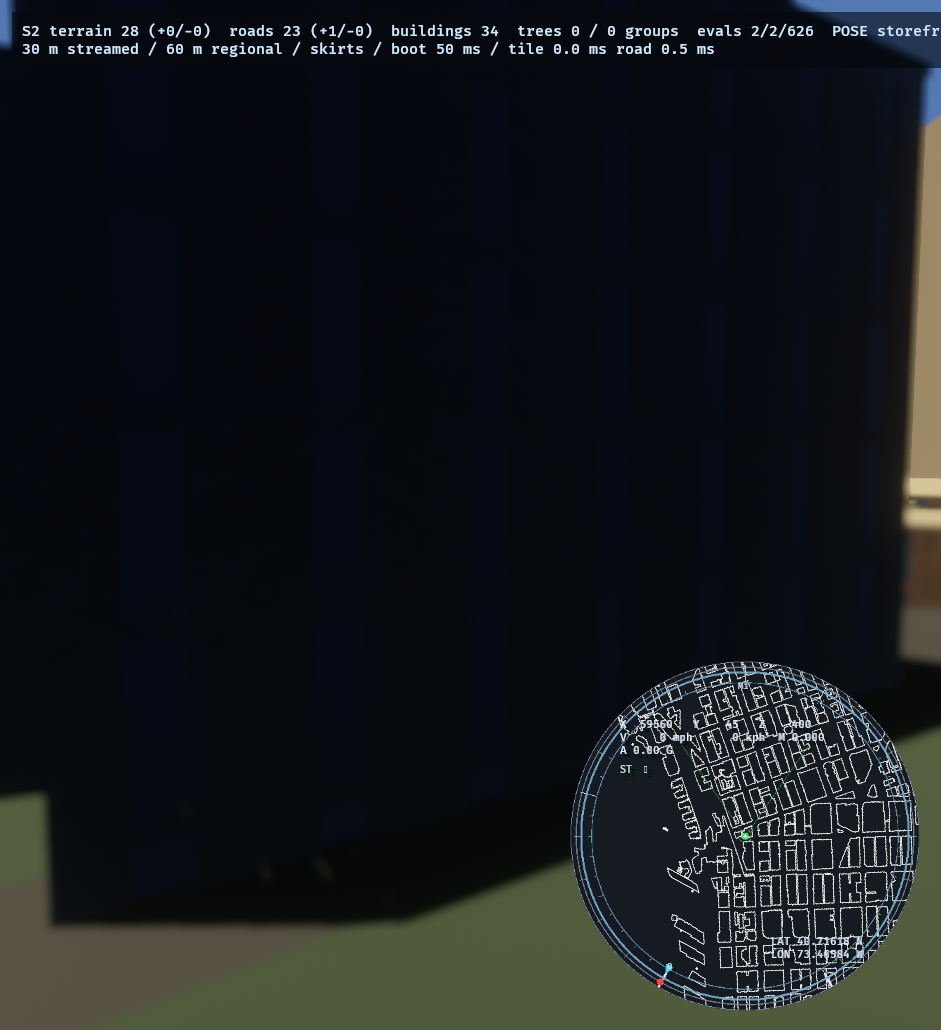
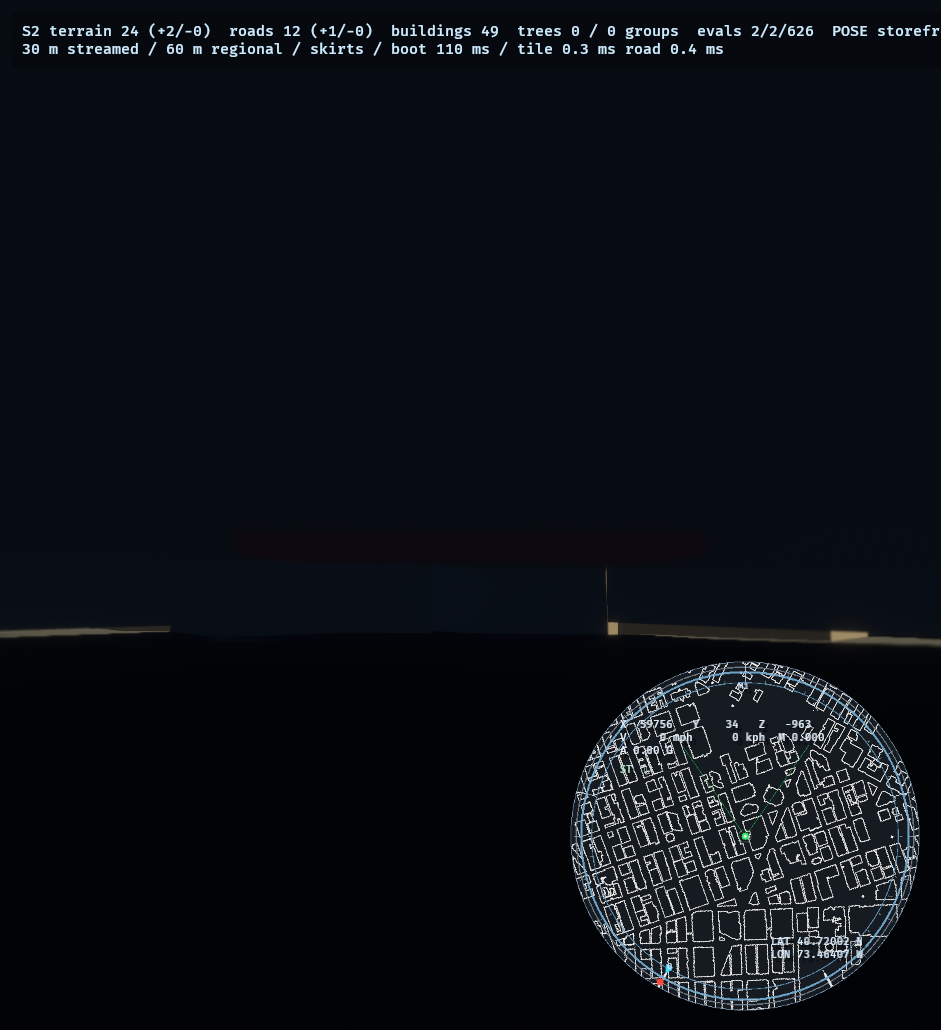
Storefronts: derived prop cameras (placement-driven)
- PlacementIndex remembers every generated prop; storefront_capture picks one
  real instance per grammar and stages an eye 8 m along its outward face
  normal at 2.6 m, aiming mid-height (the Needle/Market derivation applied to
  props). Poses carry the authority stamp.
- Frames now prove the props exist at scale (colonnade piers and lintel fill
  the Pioneer frame), but they are not yet reviewer-legible: the facades behind
  the props are unlit/dark and district context is missing; no perf table, no
  tag.

diff --git a/viewer/src/storefronts.rs b/viewer/src/storefronts.rs
@@ -209,6 +209,23 @@ impl StorefrontAssets {
     }
 }
 
+/// Every placement that has been generated, by prop kind, for derived cameras.
+#[derive(Resource, Default)]
+pub struct PlacementIndex {
+    pub by_kind: HashMap<u8, Vec<Placement>>,
+}
+
+impl PlacementIndex {
+    pub fn remember(&mut self, placements: &[Placement]) {
+        for placement in placements {
+            let list = self.by_kind.entry(placement.kind).or_default();
+            if list.len() < 400 {
+                list.push(*placement);
+            }
+        }
+    }
+}
+
 #[derive(Resource, Default)]
 pub struct Storefronts {
     pub loaded: HashMap<usize, Vec<Entity>>,
@@ -221,8 +238,10 @@ pub struct StorefrontsPlugin;
 
 impl Plugin for StorefrontsPlugin {
     fn build(&self, app: &mut App) {
-        app.add_systems(Startup, setup_storefronts)
-            .add_systems(Update, storefront_stream);
+        app.init_resource::<PlacementIndex>()
+            .init_resource::<StorefrontCaptureState>()
+            .add_systems(Startup, setup_storefronts)
+            .add_systems(Update, (storefront_stream, storefront_capture));
     }
 }
 
@@ -492,6 +511,7 @@ fn storefront_stream(world: &mut World) {
                 .insert(index, Vec::new());
             continue;
         }
+        world.resource_mut::<PlacementIndex>().remember(&placements);
         world
             .resource_mut::<Storefronts>()
             .pending
@@ -505,6 +525,151 @@ fn storefront_stream(world: &mut World) {
             world.resource::<Geology>().pack.nodes[index].name
         );
     }
+}
+
+#[derive(Resource, Default)]
+struct StorefrontCaptureState {
+    index: usize,
+    entered: bool,
+    since: f32,
+    done: bool,
+    chosen: Vec<Placement>,
+}
+
+const CAPTURE_KINDS: [(u8, &str); 4] = [
+    (KIND_AWNING, "storefronts_pike_place"),
+    (KIND_COLONNADE, "storefronts_pioneer_square"),
+    (KIND_WAREHOUSE, "storefronts_sodo"),
+    (KIND_PLACARD, "storefronts_residential"),
+];
+
+/// Derived camera: pick a real placed prop, stand 18 m along its outward face
+/// normal at pedestrian eye height, aim at its mid-height with a little street.
+fn storefront_capture(world: &mut World) {
+    if std::env::var_os("STOREFRONT_CAPTURE").is_none() || !crate::geology::s2_enabled() {
+        return;
+    }
+    let elapsed = world.resource::<Time>().elapsed_secs();
+    if elapsed < 5.0 {
+        return;
+    }
+    let (index, entered, since, done) = {
+        let state = world.resource::<StorefrontCaptureState>();
+        (state.index, state.entered, state.since, state.done)
+    };
+    if done {
+        return;
+    }
+    if index >= CAPTURE_KINDS.len() {
+        world.resource_mut::<StorefrontCaptureState>().done = true;
+        world.write_message(AppExit::Success);
+        return;
+    }
+    {
+        let mut clock = world.resource_mut::<crate::clock::SimClock>();
+        clock.minute_of_day = 12.0 * 60.0;
+        clock.playing = false;
+        let mut weather = world.resource_mut::<crate::weather::Weather>();
+        weather.auto = false;
+        weather.target = crate::weather::WeatherKind::Clear;
+        weather.cloud_cover = 0.18;
+        weather.precipitation = 0.0;
+        weather.storm = 0.0;
+        weather.snow = 0.0;
+    }
+    let (kind, name) = CAPTURE_KINDS[index];
+    if !entered {
+        let chosen = world
+            .resource::<PlacementIndex>()
+            .by_kind
+            .get(&kind)
+            .and_then(|list| list.first().copied());
+        let Some(placement) = chosen else {
+            // Nothing streamed yet: park the camera at the market so the
+            // streamer has something to load, then wait.
+            let ground = world
+                .resource::<crate::geology::Geology>()
+                .dem
+                .height(-440.0, -400.0);
+            let mut staged = world.resource_mut::<crate::camera_authority::StagedPose>();
+            crate::camera_authority::stage_look_at(
+                &mut staged,
+                "storefront_capture",
+                Vec3::new(
+                    crate::citypack::STREAM_WORLD_OFFSET - 440.0,
+                    ground + 6.0,
+                    -400.0,
+                ),
+                Vec3::new(
+                    crate::citypack::STREAM_WORLD_OFFSET - 525.0,
+                    ground + 8.0,
+                    -400.0,
+                ),
+                "warming",
+            );
+            return;
+        };
+        let ground = world
+            .resource::<crate::geology::Geology>()
+            .dem
+            .height(placement.x, placement.z);
+        let nx = placement.yaw.sin();
+        let nz = placement.yaw.cos();
+        let eye = Vec3::new(
+            crate::citypack::STREAM_WORLD_OFFSET + placement.x + nx * 8.0,
+            ground + 2.6,
+            placement.z + nz * 8.0,
+        );
+        let look = Vec3::new(
+            crate::citypack::STREAM_WORLD_OFFSET + placement.x + nx * 2.0,
+            ground + 3.2,
+            placement.z + nz * 2.0,
+        );
+        {
+            let mut staged = world.resource_mut::<crate::camera_authority::StagedPose>();
+            crate::camera_authority::stage_look_at(
+                &mut staged,
+                "storefront_capture",
+                eye,
+                look,
+                name,
+            );
+        }
+        {
+            let mut clock = world.resource_mut::<crate::clock::SimClock>();
+            clock.minute_of_day = 12.0 * 60.0;
+            let mut weather = world.resource_mut::<crate::weather::Weather>();
+            weather.auto = false;
+            weather.target = crate::weather::WeatherKind::Clear;
+            weather.cloud_cover = 0.18;
+            weather.precipitation = 0.0;
+            weather.storm = 0.0;
+            weather.snow = 0.0;
+        }
+        let mut state = world.resource_mut::<StorefrontCaptureState>();
+        state.chosen = vec![placement];
+        state.entered = true;
+        state.since = elapsed;
+        return;
+    }
+    if elapsed - since < 1.4 {
+        return;
+    }
+    let path = std::path::Path::new(env!("CARGO_MANIFEST_DIR"))
+        .join("captures")
+        .join(format!("{name}.png"));
+    world
+        .spawn(bevy::render::view::screenshot::Screenshot::primary_window())
+        .observe(bevy::render::view::screenshot::save_to_disk(path));
+    info!(
+        "STOREFRONT capture {name} from kind {} at ({:.0},{:.0})",
+        kind,
+        world.resource::<StorefrontCaptureState>().chosen[0].x,
+        world.resource::<StorefrontCaptureState>().chosen[0].z
+    );
+    let mut state = world.resource_mut::<StorefrontCaptureState>();
+    state.index += 1;
+    state.entered = false;
 }
 
 fn spawn_placements(world: &mut World, node: usize, placements: &[Placement]) {

diff --git a/viewer/src/main.rs b/viewer/src/main.rs
@@ -248,7 +248,7 @@ fn parse_args() -> Args {
                     std::env::set_var("SEATTLE_S3", "1");
                     std::env::set_var("PILOT_HORIZON", "1");
                     std::env::set_var("PILOT_CLEAN", "1");
-                    std::env::set_var("DISTRICT_CAPTURE", "1");
+                    std::env::set_var("STOREFRONT_CAPTURE", "1");
                     std::env::set_var("TREES_OFF", "1");
                 }
             }

diff --git a/viewer/src/geology.rs b/viewer/src/geology.rs
@@ -1316,6 +1316,7 @@ fn s2_capture(
         || std::env::var_os("TREES_CAPTURE").is_some()
         || std::env::var_os("LANDMARK_GATE").is_some()
         || std::env::var_os("DISTRICT_CAPTURE").is_some()
+        || std::env::var_os("STOREFRONT_CAPTURE").is_some()
     {
         return;
     }
